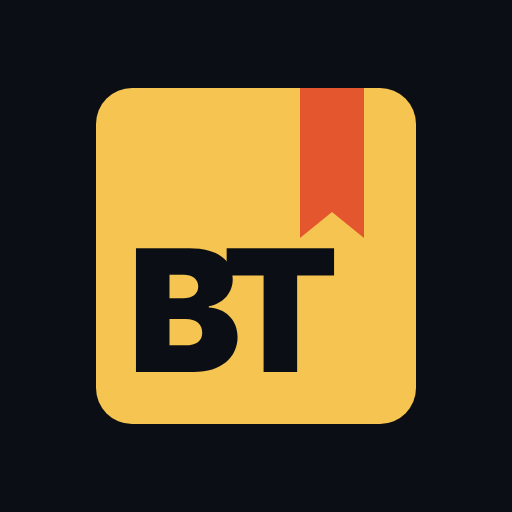
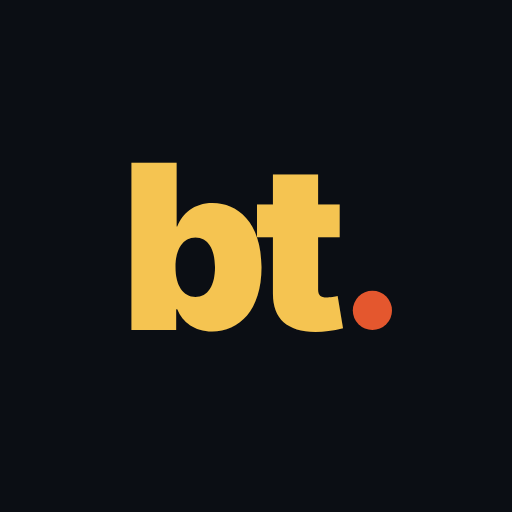
비티 노트: bt. 아이콘 적용(검정 바탕·금색 bt·붉은 마침표), 변형 6종 원본 보관
Claude-Session: https://claude.ai/code/session_015mA7Pdv3Q3o8VMReYwgQo9

diff --git a/btcard/app.js b/btcard/app.js
@@ -9,7 +9,7 @@
     cfg: null, feed: { days: [] }, notices: [], access: null, route: 'gate', date: null, open: null, idx: 0,
     os: /android/i.test(navigator.userAgent) ? 'and' : 'ios', err: '', toast: '', cat: 'all', capOpen: false, seen: '', member: null, plan: 'monthly', method: 'card', agree: {}, phone: '', busy: false,
   };
-  const VERSION = 'v17';
+  const VERSION = 'v18';
   const B = () => esc(S.cfg.brand); // 앱 이름은 config.json의 brand 한 곳에서 바꾼다
   let installPrompt = null;
   let lockUntil = 0;
@@ -84,7 +84,7 @@
 
   const tabs = () => `<nav class="tabs">${[['home', '오늘'], ['archive', '보관함'], ['news', '소식'], ['my', '내 정보']]
     .map(([k, l]) => `<button data-go="${k}" class="${S.route === k ? 'on' : ''}"><span class="${k === 'news' && unread() ? 'dot' : ''}">${ICON[k]}</span>${l}</button>`).join('')}</nav>`;
-  const topbar = () => `<div class="top"><div class="brand"><span class="logo">BT</span>${esc(S.cfg.brand)}</div><span class="pro">PREMIUM</span></div>`;
+  const topbar = () => `<div class="top"><div class="brand"><img class="logo" src="icon-192.png" alt="">${esc(S.cfg.brand)}</div><span class="pro">PREMIUM</span></div>`;
   const chips = () => `<div class="chips">${[{ id: 'all', name: '전체' }].concat(S.cfg.categories)
     .map((c) => `<button data-cat="${c.id}" class="${S.cat === c.id ? 'on' : ''}">${esc(c.name)}</button>`).join('')}</div>`;
   const feat = (s, date) => `<button class="feat" data-open="${esc(s.series)}" data-date="${esc(date)}" style="--c:${info(s.series).color}">
@@ -95,7 +95,7 @@
 
   const V = {
     gate: () => `<div class="body pad">
-      <div class="hero"><span class="logo">BT</span><h1>비티의 인사이트 노트<br>구독자 전용 카드</h1>
+      <div class="hero"><img class="logo" src="icon-192.png" alt=""><h1>비티의 인사이트 노트<br>구독자 전용 카드</h1>
       <p class="muted">모닝 인사이트, 마켓, 5분 세상읽기를 한곳에서. 발행 즉시 가장 먼저 받아보세요.</p></div>
       <div class="box">네이버 인사이트 노트 유료 글 맨 아래의 <b>"${B()} 앱에서 넘겨보기"</b> 버튼을 누르면 바로 열려요.</div>
       <form id="codeForm" autocomplete="off">

diff --git a/btcard/style.css b/btcard/style.css
@@ -238,5 +238,5 @@ h2{font-size:18px;letter-spacing:-.01em;margin:26px 0 10px}
 .tile img{object-position:center}
 .tile .tag{font-size:11px;margin-top:6px;white-space:nowrap;overflow:hidden;text-overflow:ellipsis;max-width:100%}
 .tile .tag::before{width:6px;height:6px;flex:none}
-.logo{position:relative;overflow:hidden}
-.logo::after{content:"";position:absolute;top:0;right:18%;width:22%;height:42%;background:#E4572E;clip-path:polygon(0 0,100% 0,100% 100%,50% 78%,0 100%)}
+/* bt. 로고: 앱 아이콘 그대로 */
+img.logo{display:block;object-fit:cover;background:none;border:1px solid #232b3a}

diff --git a/btcard/admin.html b/btcard/admin.html
@@ -34,7 +34,7 @@ code{color:var(--gold)}
 </head>
 <body>
 <div class="wrap">
-  <div class="top"><div class="brand"><span class="logo">BT</span>발행 도구</div><span class="pro">운영자</span></div>
+  <div class="top"><div class="brand"><img class="logo" src="icon-192.png" alt="">발행 도구</div><span class="pro">운영자</span></div>
   <div class="tabs2" id="tabs">
     <button data-t="card" class="on">카드</button><button data-t="notice">공지</button><button data-t="code">연동 코드</button><button data-t="set">설정</button>
   </div>

diff --git a/btcard/sw.js b/btcard/sw.js
@@ -1,5 +1,5 @@
 // 비티 노트 서비스 워커: 앱 화면은 캐시, 카드 목록은 항상 최신 우선
-const VERSION = 'btcard-v17';
+const VERSION = 'btcard-v18';
 const SHELL = ['./', 'index.html', 'style.css', 'app.js', 'config.json', 'manifest.webmanifest', 'icon-192.png', 'icon-512.png', 'apple-touch-icon.png'];
 
 self.addEventListener('install', (e) => {
